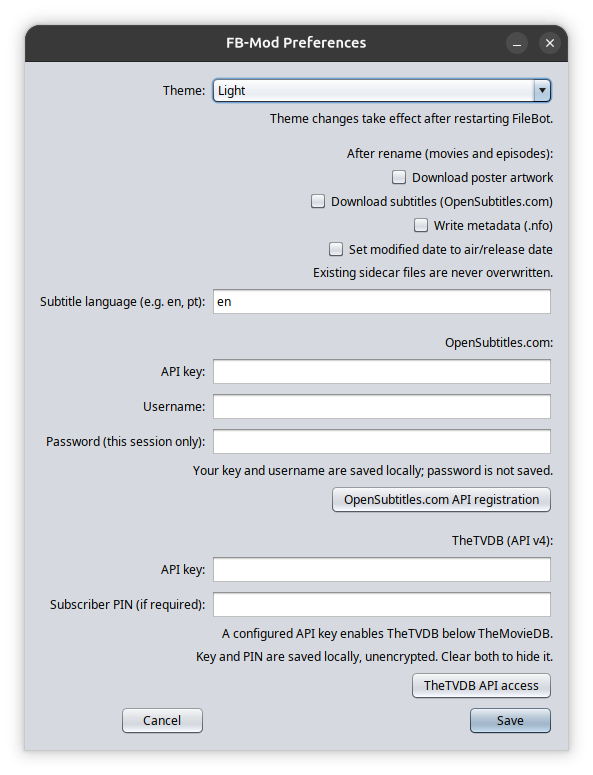
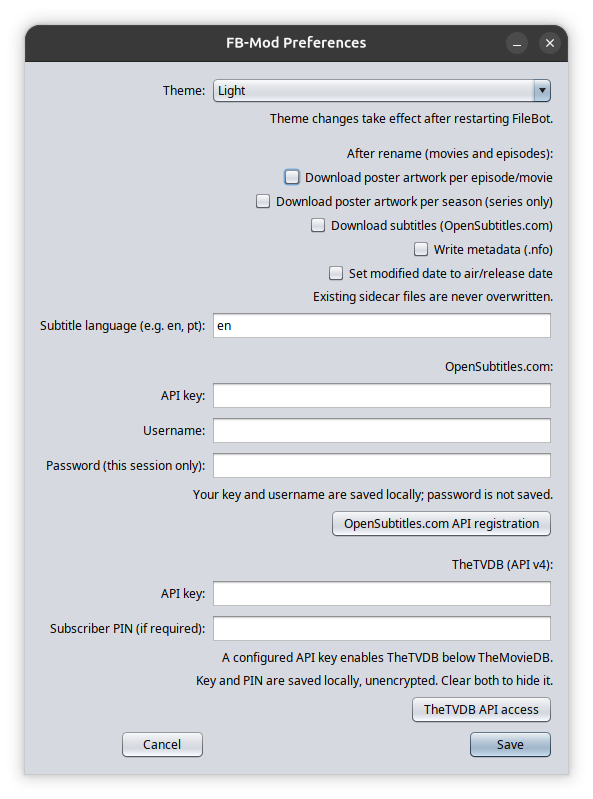
Update README screenshots for 4.8.6

diff --git a/README.md b/README.md
@@ -48,13 +48,14 @@ keep both ports on a trusted network.
 
 ### Rename window
 
-FB-Mod_by_SMAP rename window with the Original Files and New Names panels.
+FB-Mod_by_SMAP 4.8.6 rename window with the Original Files and New Names panels.
 
 ![FB-Mod_by_SMAP Rename window](docs/screenshots/rename-window.png)
 
 ### Preferences
 
-Theme selection, optional after-rename actions, and provider credentials.
+Theme selection, separate per-episode/movie and per-season poster options,
+optional after-rename actions, and provider credentials.
 
 ![FB-Mod preferences showing themes, after-rename actions, and empty provider credential fields](docs/screenshots/preferences.png)
 
